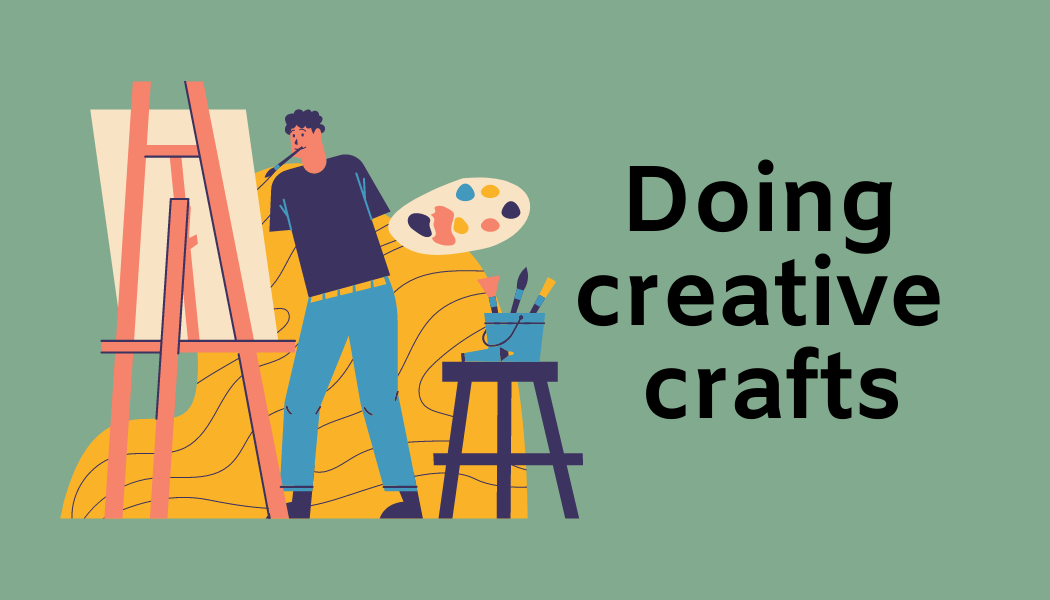
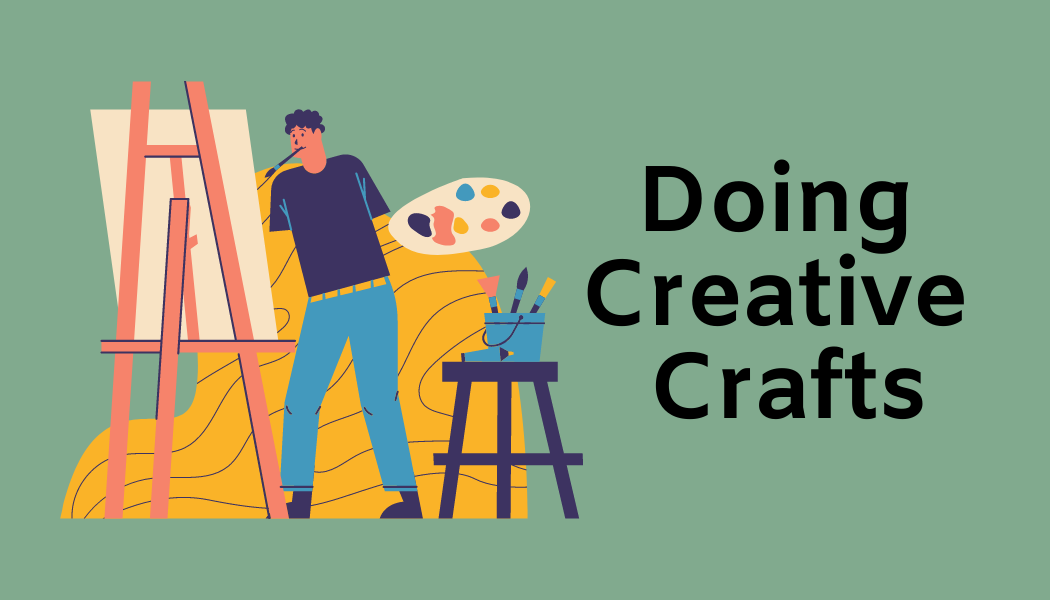
add fall 2020 committee quiz

Changed region(s): [[0.5486, 0.27, 0.9448, 0.54], [0.6095, 0.57, 0.8838, 0.72]]

diff --git a/fallcommquiz.html b/fallcommquiz.html
@@ -71,7 +71,7 @@
         <br><br>
         <div class="text-center">
             <h4>
-                Our committee/apprenticeship applications for Fall 2020 are due Friday, September 16 at Midnight PST – <strong><a href="https://docs.google.com/forms/d/e/1FAIpQLSccLOe-rZ7EqKq27ojxzgm-ctcZX0suJiP2vJ_ZyOi5aLnZZA/viewform" target="_">Apply</a></strong> today!
+                Our committee/apprenticeship applications for Fall 2020 are due Friday, September 16 at 11:59 PM PST – <strong><a href="https://docs.google.com/forms/d/e/1FAIpQLSccLOe-rZ7EqKq27ojxzgm-ctcZX0suJiP2vJ_ZyOi5aLnZZA/viewform" target="_">Apply</a></strong> today!
             </h4>
             <p>
                 Note that some committees/apprenticies may have different deadlines.
@@ -87,23 +87,23 @@
             <li class="quiz-answer" data-quiz-answer="social mentor transfer alum">
                 <img src="img/quiz/38.png" alt="Social"/>
             </li>
-            <li class="quiz-answer" data-quiz-answer="next swe++ science hsep miniu tutoring">
+            <li class="quiz-answer" data-quiz-answer="next science swe++ miniu tutoring">
                 <img src="img/quiz/39.png" alt="Outreach"/>
             </li>
-            <li class="quiz-answer" data-quiz-answer="advocacy eandi transfer">
+            <li class="quiz-answer" data-quiz-answer="advocacy eandi">
                 <img src="img/quiz/40.png" alt="Advocacy/Equity & Inclusion"/>
             </li>
-            <li class="quiz-answer" data-quiz-answer="social pr web">
+            <li class="quiz-answer" data-quiz-answer="pr web">
                 <img src="img/quiz/41.png" alt="General Meetings"/>
             </li>
-            <li class="quiz-answer" data-quiz-answer="pr web tech">
+            <li class="quiz-answer" data-quiz-answer="tech">
                 <img src="img/quiz/42.png" alt="All of Them!"/>
             </li>
         </ul>
 
         <h2 class="quiz-question">Your friends describe you as: </h2>
         <ul data-quiz-question="2">
-            <li class="quiz-answer" data-quiz-answer="secretary internal membership intersocietal mentorship transfer alum outreach corporate advocacy eandi president">
+            <li class="quiz-answer" data-quiz-answer="social mentor transfer alum advocacy">
                 <img src="img/quiz/43.png" alt="Outgoing"/>
             </li>
             <li class="quiz-answer" data-quiz-answer="sae pdm tech">
@@ -112,13 +112,13 @@
             <li class="quiz-answer" data-quiz-answer="pr web tech">
                 <img src="img/quiz/45.png" alt="Creative"/>
             </li>
-            <li class="quiz-answer" data-quiz-answer="advocacy eandi transfer">
+            <li class="quiz-answer" data-quiz-answer="advocacy eandi">
                 <img src="img/quiz/46.png" alt="Passionate"/>
             </li>
-            <li class="quiz-answer" data-quiz-answer="next swe++ science hsep miniu tutoring">
+            <li class="quiz-answer" data-quiz-answer="next science hsep swe++ miniu tutoring">
                 <img src="img/quiz/47.png" alt="Generous"/>
             </li>
-            <li class="quiz-answer" data-quiz-answer="social mentor alum">
+            <li class="quiz-answer" data-quiz-answer="social mentor">
                 <img src="img/quiz/48.png" alt="Organized"/>
             </li>
         </ul>
@@ -128,10 +128,10 @@
             <li class="quiz-answer" data-quiz-answer="sae pdm">
                 <img src="img/quiz/49.png" alt="La Burrita"/>
             </li>
-            <li class="quiz-answer" data-quiz-answer="social mentor transfer">
+            <li class="quiz-answer" data-quiz-answer="social mentor transfer alum">
                 <img src="img/quiz/50.png" alt="Rachas"/>
             </li>
-            <li class="quiz-answer" data-quiz-answer="tech alum">
+            <li class="quiz-answer" data-quiz-answer="sae pdm">
                 <img src="img/quiz/51.png" alt="Seoul Hotdog"/>
             </li>
             <li class="quiz-answer" data-quiz-answer="advocacy eandi">
@@ -140,26 +140,26 @@
             <li class="quiz-answer" data-quiz-answer="pr web">
                 <img src="img/quiz/53.png" alt="Imm Thai"/>
             </li>
-            <li class="quiz-answer" data-quiz-answer="next swe++ science hsep miniu tutoring">
+            <li class="quiz-answer" data-quiz-answer="next science hsep swe++ miniu tutoring">
                 <img src="img/quiz/54.png" alt="Sliver"/>
             </li>
         </ul>
 
         <h2 class="quiz-question">When are you the most productive?</h2>
         <ul data-quiz-question="4">
-            <li class="quiz-answer" data-quiz-answer="social mentor transfer">
+            <li class="quiz-answer" data-quiz-answer="social mentor transfer alum">
                 <img src="img/quiz/55.png" alt="Mornings"/>
             </li>
             <li class="quiz-answer" data-quiz-answer="sae pdm">
                 <img src="img/quiz/56.png" alt="Evenings"/>
             </li>
-            <li class="quiz-answer" data-quiz-answer="next swe++ science hsep miniu tutoring">
+            <li class="quiz-answer" data-quiz-answer="next science hsep swe++ miniu tutoring">
                 <img src="img/quiz/57.png" alt="Weekends"/>
             </li>
             <li class="quiz-answer" data-quiz-answer="pr web">
                 <img src="img/quiz/58.png" alt="Late at Night"/>
             </li>
-            <li class="quiz-answer" data-quiz-answer="advocacy eandi alum">
+            <li class="quiz-answer" data-quiz-answer="advocacy eandi">
                 <img src="img/quiz/59.png" alt="Always"/>
             </li>
             <li class="quiz-answer" data-quiz-answer="tech">
@@ -170,19 +170,19 @@
         <h2 class="quiz-question">How are you spending your ideal Tuesday night?</h2>
         <ul data-quiz-question="5">
             <li class="quiz-answer" data-quiz-answer="pr">
-                <img src="img/quiz/fall20comm/1.png" alt="Doing Creative Crafts"/>
+                <img src="img/quiz/fall20comm/1.png" alt="Doing creative crafts"/>
             </li>
             <li class="quiz-answer" data-quiz-answer="social mentor transfer alum">
-                <img src="img/quiz/fall20comm/3.png" alt="Hosting a Party"/>
+                <img src="img/quiz/fall20comm/2.png" alt="Hosting a Party"/>
             </li>
             <li class="quiz-answer" data-quiz-answer="advocacy eandi">
-                <img src="img/quiz/fall20comm/5.png" alt="Contacting Representatives"/>
+                <img src="img/quiz/fall20comm/3.png" alt="Contacting Representatives"/>
             </li>
             <li class="quiz-answer" data-quiz-answer="next science hsep miniu tutoring">
-                <img src="img/quiz/fall20comm/2.png" alt="Testing New Experiments"/>
+                <img src="img/quiz/fall20comm/4.png" alt="Testing New Experiments"/>
             </li>
             <li class="quiz-answer" data-quiz-answer="sae pdm">
-                <img src="img/quiz/fall20comm/4.png" alt="Responding to Emails"/>
+                <img src="img/quiz/fall20comm/5.png" alt="Responding to Emails"/>
             </li>
             <li class="quiz-answer" data-quiz-answer="tech swe++ web">
                 <img src="img/quiz/fall20comm/6.png" alt="Working on a Project"/>
@@ -191,128 +191,128 @@
 
         <h2 class="quiz-question">What is your favorite color?</h2>
         <ul data-quiz-question="6">
-            <li class="quiz-answer" data-quiz-answer="social advocacy science">
+            <li class="quiz-answer" data-quiz-answer="social">
                 <img src="img/quiz/19.png" alt="Red"/>
             </li>
-            <li class="quiz-answer" data-quiz-answer="miniu mentor next tech">
+            <li class="quiz-answer" data-quiz-answer="miniu">
                 <img src="img/quiz/20.png" alt="Orange"/>
             </li>
-            <li class="quiz-answer" data-quiz-answer="swe++ transfer pr">
+            <li class="quiz-answer" data-quiz-answer="science swe++">
                 <img src="img/quiz/21.png" alt="Yellow"/>
             </li>
-            <li class="quiz-answer" data-quiz-answer="membership hsep pdm">
+            <li class="quiz-answer" data-quiz-answer="hsep pdm">
                 <img src="img/quiz/22.png" alt="Green"/>
             </li>
-            <li class="quiz-answer" data-quiz-answer="tutoring web hsep">
+            <li class="quiz-answer" data-quiz-answer="tutoring">
                 <img src="img/quiz/23.png" alt="Blue"/>
             </li>
-            <li class="quiz-answer" data-quiz-answer="sae swenext eandi alum">
+            <li class="quiz-answer" data-quiz-answer="sae next">
                 <img src="img/quiz/24.png" alt="Purple"/>
             </li>
         </ul>
 
         <h2 class="quiz-question">You're headed to National Conference soon. What is one item you cannot forget to bring?</h2>
         <ul data-quiz-question="7">
-            <li class="quiz-answer" data-quiz-answer="social mentor alum transfer">
+            <li class="quiz-answer" data-quiz-answer="social">
                 <img src="img/quiz/31.png" alt="Board Games"/>
             </li>
-            <li class="quiz-answer" data-quiz-answer="next swe++ science hsep miniu tutoring">
+            <li class="quiz-answer" data-quiz-answer="science tutoring">
                 <img src="img/quiz/32.png" alt="Science Experiment Kit"/>
             </li>
-            <li class="quiz-answer" data-quiz-answer="pr web">
+            <li class="quiz-answer" data-quiz-answer="pr web ">
                 <img src="img/quiz/33.png" alt="Bullet Journal"/>
             </li>
             <li class="quiz-answer" data-quiz-answer="sae pdm">
                 <img src="img/quiz/34.png" alt="Resume"/>
             </li>
-            <li class="quiz-answer" data-quiz-answer="tech">
+            <li class="quiz-answer" data-quiz-answer="eandi">
                 <img src="img/quiz/35.png" alt="Past SWE Section Awards"/>
             </li>
-            <li class="quiz-answer" data-quiz-answer="advocacy eandi">
+            <li class="quiz-answer" data-quiz-answer="advocacy">
                 <img src="img/quiz/36.png" alt="Flyers on Women in Engineering"/>
             </li>
         </ul>
 
         <h2 class="quiz-question">Add one song to <a href="https://open.spotify.com/playlist/2xFS51WlGBqazDplUqei7D" target="_">SWE's Spotify playlist</a>:</h2>
         <ul data-quiz-question="8">
-            <li class="quiz-answer" data-quiz-answer="eandi advocacy transfer">
-                <img src="img/quiz/13.png" alt="'SONG' - ARTIST"/>
+            <li class="quiz-answer" data-quiz-answer="transfer mentor">
+                <img src="img/quiz/fall20comm/7.png" alt="'God is a Woman' - Ariana Grande"/>
             </li>
-            <li class="quiz-answer" data-quiz-answer="social mentor">
-                <img src="img/quiz/14.png" alt="'God is a Woman' - Ariana Grande"/>
+            <li class="quiz-answer" data-quiz-answer="swenext hsep swe++ miniu">
+                <img src="img/quiz/fall20comm/8.png" alt="'Sleep on the Floor' - The Lumineers"/>
             </li>
-            <li class="quiz-answer" data-quiz-answer="next swe++ science hsep miniu tutoring">
-                <img src="img/quiz/15.png" alt="'Sleep on the Floor' - The Lumineers"/>
+            <li class="quiz-answer" data-quiz-answer="alum">
+                <img src="img/quiz/fall20comm/9.png" alt="'Go Crazy' - Chris Brown"/>
+            </li>
+            <li class="quiz-answer" data-quiz-answer="eandi advocacy">
+                <img src="img/quiz/fall20comm/10.png" alt="'Golden Hour' - Kacey Musgraves"/>
             </li>
             <li class="quiz-answer" data-quiz-answer="sae pdm">
-                <img src="img/quiz/16.png" alt="'Uptown Funk' - Kidz Bop"/>
+                <img src="img/quiz/fall20comm/11.png" alt="'Nice to Meet Ya' - Niall Horan"/>
             </li>
-            <li class="quiz-answer" data-quiz-answer="pr web">
-                <img src="img/quiz/17.png" alt="'Work' - Rihanna ft. Drake"/>
-            </li>
-            <li class="quiz-answer" data-quiz-answer="alum tech">
-                <img src="img/quiz/18.png" alt="'Bad Guy' - Billie Eilish"/>
+            <li class="quiz-answer" data-quiz-answer="pr">
+                <img src="img/quiz/fall20comm/12.png" alt="'One Call Away' - Charlie Puth"/>
             </li>
         </ul>
 
         <h2 class="quiz-question">What swag are you taking from EWI?</h2>
         <ul data-quiz-question="9">
-            <li class="quiz-answer" data-quiz-answer="pr web transfer">
+            <li class="quiz-answer" data-quiz-answer="science tutoring">
                 <img src="img/quiz/25.png" alt="Enamel Pin and Stickers"/>
             </li>
-            <li class="quiz-answer" data-quiz-answer="social mentor alum">
+            <li class="quiz-answer" data-quiz-answer="social pdm miniu">
                 <img src="img/quiz/26.png" alt="Phone Wallet"/>
             </li>
-            <li class="quiz-answer" data-quiz-answer="sae pdm">
+            <li class="quiz-answer" data-quiz-answer="ewi social alum hsep">
                 <img src="img/quiz/27.png" alt="Business Cards"/>
             </li>
-            <li class="quiz-answer" data-quiz-answer="next science hsep minu tutoring">
+            <li class="quiz-answer" data-quiz-answer="swe++ mentor sae eandi">
                 <img src="img/quiz/28.png" alt="T-Shirt"/>
             </li>
-            <li class="quiz-answer" data-quiz-answer="advocacy eandi">
+            <li class="quiz-answer" data-quiz-answer="transfer advocacy next">
                 <img src="img/quiz/29.png" alt="Reusable Straw"/>
             </li>
-            <li class="quiz-answer" data-quiz-answer="tech swe++">
+            <li class="quiz-answer" data-quiz-answer="tech">
                 <img src="img/quiz/30.png" alt="Notebook and Pen"/>
             </li>
         </ul>
 
         <h2 class="quiz-question">What is your astrological sign?</h2>
         <ul data-quiz-question="10">
-            <li class="quiz-answer" data-quiz-answer="social mentor">
+            <li class="quiz-answer" data-quiz-answer="social">
                 <img src="img/quiz/1.png" alt="Aries"/>
             </li>
-            <li class="quiz-answer" data-quiz-answer="sae tech">
+            <li class="quiz-answer" data-quiz-answer="sae swe++">
                 <img src="img/quiz/2.png" alt="Taurus"/>
             </li>
-            <li class="quiz-answer" data-quiz-answer="advocacy transfer alum">
+            <li class="quiz-answer" data-quiz-answer="advocacy alum">
                 <img src="img/quiz/3.png" alt="Gemini"/>
             </li>
-            <li class="quiz-answer" data-quiz-answer="web swenext swe++">
+            <li class="quiz-answer" data-quiz-answer="next swe++">
                 <img src="img/quiz/4.png" alt="Cancer"/>
             </li>
-            <li class="quiz-answer" data-quiz-answer="social transfer">
+            <li class="quiz-answer" data-quiz-answer="transfer">
                 <img src="img/quiz/5.png" alt="Leo"/>
             </li>
-            <li class="quiz-answer" data-quiz-answer="eandi social mentor">
+            <li class="quiz-answer" data-quiz-answer="eandi social">
                 <img src="img/quiz/6.png" alt="Libra"/>
             </li>
-            <li class="quiz-answer" data-quiz-answer="pdm">
+            <li class="quiz-answer" data-quiz-answer="pdm science">
                 <img src="img/quiz/7.png" alt="Virgo"/>
             </li>
-            <li class="quiz-answer" data-quiz-answer="outreach hsep science">
+            <li class="quiz-answer" data-quiz-answer="hsep science">
                 <img src="img/quiz/8.png" alt="Scorpio"/>
             </li>
-            <li class="quiz-answer" data-quiz-answer="social alum">
+            <li class="quiz-answer" data-quiz-answer="alum">
                 <img src="img/quiz/9.png" alt="Sagittarius"/>
             </li>
-            <li class="quiz-answer" data-quiz-answer="ewi tech">
+            <li class="quiz-answer" data-quiz-answer="ewi">
                 <img src="img/quiz/10.png" alt="Capricorn"/>
             </li>
-            <li class="quiz-answer" data-quiz-answer="social mentor pr">
+            <li class="quiz-answer" data-quiz-answer="social tutoring">
                 <img src="img/quiz/11.png" alt="Aquarius"/>
             </li>
-            <li class="quiz-answer" data-quiz-answer="next science tutoring miniu">
+            <li class="quiz-answer" data-quiz-answer="science miniu">
                 <img src="img/quiz/12.png" alt="Pisces"/>
             </li>
         </ul>

diff --git a/involved.html b/involved.html
@@ -110,10 +110,9 @@
 
       <!-- <p class="text-center"> If you would like to join one of SWE's committees, check back in at the beginning of the semester for committee applications. Applications will be released after the first general meeting of the semester. More information about each committee can be found below.</p> -->
       <br>
-      <h4 class="text-center">Fall 2020 Committee/Apprenticeship Applications are now open! <strong><a href="https://docs.google.com/forms/d/e/1FAIpQLSccLOe-rZ7EqKq27ojxzgm-ctcZX0suJiP2vJ_ZyOi5aLnZZA/viewform" target="_">Apply</a></strong> here by <strong>9/6 at Midnight PST!</strong> To learn more about each position, view descriptions <strong><a href="https://docs.google.com/document/d/1FsTUxRtMSPylVBTQ2TafZmuJsaWWP9uO3HFf5YnyM3A/edit#heading=h.86pobrekl5ga" target="_">here.</a></strong></h4>
-
-      <!-- <p class="text-center">Not sure which role to apply to? Try our "Which SWE Committee are you?" <strong><a href="fallcommquiz.html" target="_">quiz.</a></strong></p> -->
-
+      <h4 class="text-center">Fall 2020 Committee/Apprenticeship Applications are now open! <strong><a href="https://docs.google.com/forms/d/e/1FAIpQLSccLOe-rZ7EqKq27ojxzgm-ctcZX0suJiP2vJ_ZyOi5aLnZZA/viewform" target="_">Apply</a></strong> here by <strong>9/6 at 11:59 PM PST!</strong> To learn more about each position, view descriptions <strong><a href="https://docs.google.com/document/d/1FsTUxRtMSPylVBTQ2TafZmuJsaWWP9uO3HFf5YnyM3A/edit#heading=h.86pobrekl5ga" target="_">here.</a></strong></h4>
+      <br>
+      <h4 class="text-center">Not sure which role to apply to? Try our "Which SWE Committee are you?" <strong><a href="fallcommquiz.html" target="_">quiz.</a></strong></h4>
       <br>
       <p class="text-center">To stay connected, sign up for our weekly <strong><a href= "https://docs.google.com/forms/d/e/1FAIpQLSca0azlSCkoYZJkP-UABW-rV2WMi_BWdmp45qpP7P2VokclMg/viewform" target="_">SWEMails</a></strong>, like our <strong><a href= "https://www.facebook.com/SWE-UC-Berkeley-110515020740706/" target="_">Facebook page</a></strong>, and follow us on </a><strong><a href= "https://www.instagram.com/ucb_swe/" target="_">Instagram.</a></strong></p>
 

diff --git a/js/fallcomm-quizscript.js b/js/fallcomm-quizscript.js
@@ -61,7 +61,7 @@ var Quiz = function(){
     }
 
     this._showResult = function(result){
-        $('.quiz-result').addClass('addBG').html('<span class="result-text">You are <span class="purple">' + result + '</span>!</span><br>Check out <a href="https://docs.google.com/document/d/1FsTUxRtMSPylVBTQ2TafZmuJsaWWP9uO3HFf5YnyM3A/edit#heading=h.86pobrekl5ga" target="_">committee descriptions</a> to learn more about this role!');
+        $('.quiz-result').addClass('addBG').html('<span class="result-text">You are <span class="purple">' + result + '</span>!</span><br>Check Out the <a href="https://docs.google.com/document/d/1yGCa8K-L5a9NBfCqY85kQpu6KNJb8aIhJHOPuz2BjyY/edit" target="_">officer descriptions</a> to learn more about this role!');
     }
 
     this._bindEvents = function(){
